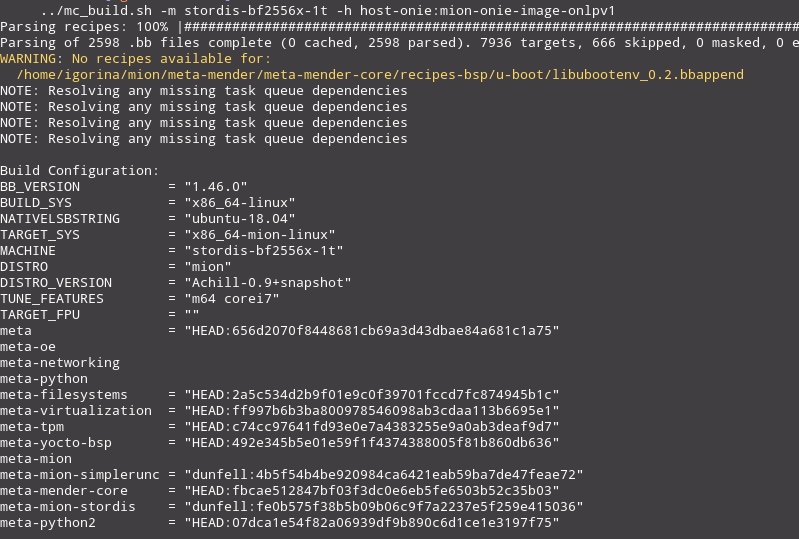
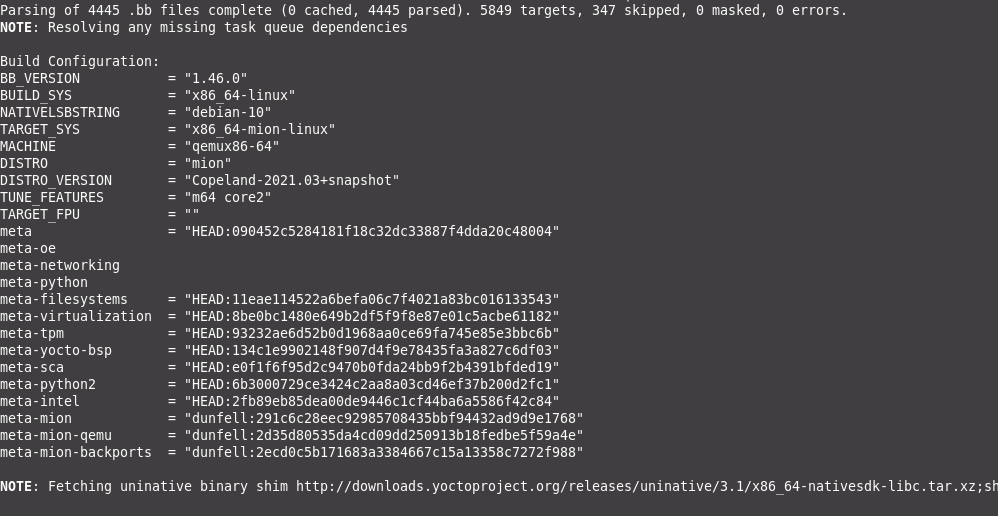
Add onie only build info to getting started guide
Updated screen shots and minor editorial changes to new getting started
guide info.

Changed region(s): [[0.0, 0.0, 1.0, 0.9922]]

diff --git a/docs/getting-started.md b/docs/getting-started.md
@@ -2,14 +2,13 @@
 
 ## Pre-Requirements
 
-> This documentation is for the active **dev** version, which will become the
-2021.06 release
+> This documentation is for mion dunfell-2021.06 "Dernish" release
 
 If you are new to Yocto Project development, check out [Overview and Concepts](https://www.yoctoproject.org/docs/3.1.3/overview-manual/overview-manual.html)
 and the [Quick Build](https://www.yoctoproject.org/docs/3.1.3/brief-yoctoprojectqs/brief-yoctoprojectqs.html)
 guide to set up your build host and become familiar with the workflow. We
 provide a quick overview below. Already familiar and want to get started
-building mion? Then checkout the mion [README](https://github.com/NetworkGradeLinux/mion)
+building mion? Then check out the mion [README](https://github.com/NetworkGradeLinux/mion)
 for a quick-start guide.
 
 ## Build Host
@@ -83,27 +82,26 @@ We added the cake.*
 
 ## Obtaining mion Sources
 
-If you are ready to start building mion:
+You're almost ready. Obtain the *required* mion bitbake layers:
 
 ```shell
+# To clone the submodules, `--recursive` is required
 git clone --recursive https://github.com/NetworkGradeLinux/mion.git
 cd mion
-# To obtain related mion layers:
+# To obtain mion distro layer:
 git clone https://github.com/NetworkGradeLinux/meta-mion.git
-# Obtain the mion hardware layer
+# Obtain the mion hardware layers
 git clone https://github.com/NetworkGradeLinux/meta-mion-bsp.git
-# meta-mion-sde is optional
-git clone https://github.com/NetworkGradeLinux/meta-mion-sde.git
+# Backports for upstream repos not currently in the LTS release
+git clone https://github.com/NetworkGradeLinux/meta-mion-backports.git
 ```
 
-The main repository for mion contains sub-modules for OpenEmbedded and Yocto
-Project of layers which mion depends on. To properly clone them, rather than
-just the top directory, the `--recursive` argument is required.
 
 `mion` provides the build script (cronie.sh) and configuration files in
-`build/conf/`.
+`build/conf/`. The `meta-mion` layer provides mion distro configuration, and
+`meta-mion-bsp` is were support and configuration is found.
 
-The `meta-mion` layer provides mion distro configuration.
+> 
 
 ## Basic Usage
 
@@ -118,18 +116,11 @@ Afterwords you can use our build script. Running `../cronie.sh` without
 arguments displays basic usage. **In general:**
 
 ```shell
-../cronie.sh -m <machine> image
+../cronie.sh -m <machine> <image>
 ```
 
 To do a "dry run" without running a build, add `-e` which emits what would have
-run if you ran this from bitbake. 
-
-If you are familiar with Yocto Project development and multiconfig and wish to
-use bitbake directly for builds, see the `local.conf` for variables that need to
-be set. You can also get the variables by running the `cronie.sh` script with
-the build variables you wish to use along with the `-e` option and prepending
-the `BB_ENV_EXTRAWHITE` output to the bitbake command you which to use in order
-to pass them in on the command line.
+run if you ran this from bitbake.
 
 > Note: The script can not always determine the vendor name, if you encounter
 that issue, or just want to be sure, you can use `-v <VENDOR>` to specify.
@@ -138,11 +129,11 @@ that issue, or just want to be sure, you can use `-v <VENDOR>` to specify.
 
 ```shell
 
-# Builds just an ONLPV1 image onie image
-../cronie.sh -m stordis-bf2556x-1t mion-guest-onlpv1
+# Builds an ONLPV1 image onie image
+../cronie.sh -m stordis-bf2556x-1t mion-onie-image-onlpv1
 
-# Builds a qemu image with ONLPV1, useful for testing purposes
-../cronie.sh -v qemu -m qemux86-64 mion-image-onlpv1
+# Builds the qemu image with ONLPV1 with p-test support
+../cronie.sh -v qemu -m qemux86-64 mion-onie-image-onlpv1-ptest
 
 ```
 
@@ -151,9 +142,9 @@ that issue, or just want to be sure, you can use `-v <VENDOR>` to specify.
 Once you've gone through the pre-requirements, have your build host set up, and
 looked at the build script examples, you're ready to create an image yourself.
 
-After you run the `cronie.sh` script, bitbake gets called, first parsing all
-the recipes and making sure your `local.conf` and `bblayers.conf` looks good,
-before going to work "baking" your image!
+When you run `cronie.sh`, bitbake gets called, first parsing all
+the recipes and making sure your `local.conf` and `bblayers.conf` looks good.
+Next, bitbake gets to work "baking" your image!
 
 ![image of build start](assets/images/build_config.png)
 
@@ -168,9 +159,9 @@ this:
 
 ![completed image](assets/images/build_done.png)
 
-Assuming you are still in the build directory, you'll find the finished images
-and related items such as the onie-installer in
-`tmp-glibc/deploy/images/<VENDOR>-<MACHINE>/`
+From the build directory, you'll find the finished images and related items such
+as the onie-installer in `tmp-glibc/deploy/images/<VENDOR>-<MACHINE>/`
+TODO: fact check onie-installer still in use
 
 ### Build Process
 
